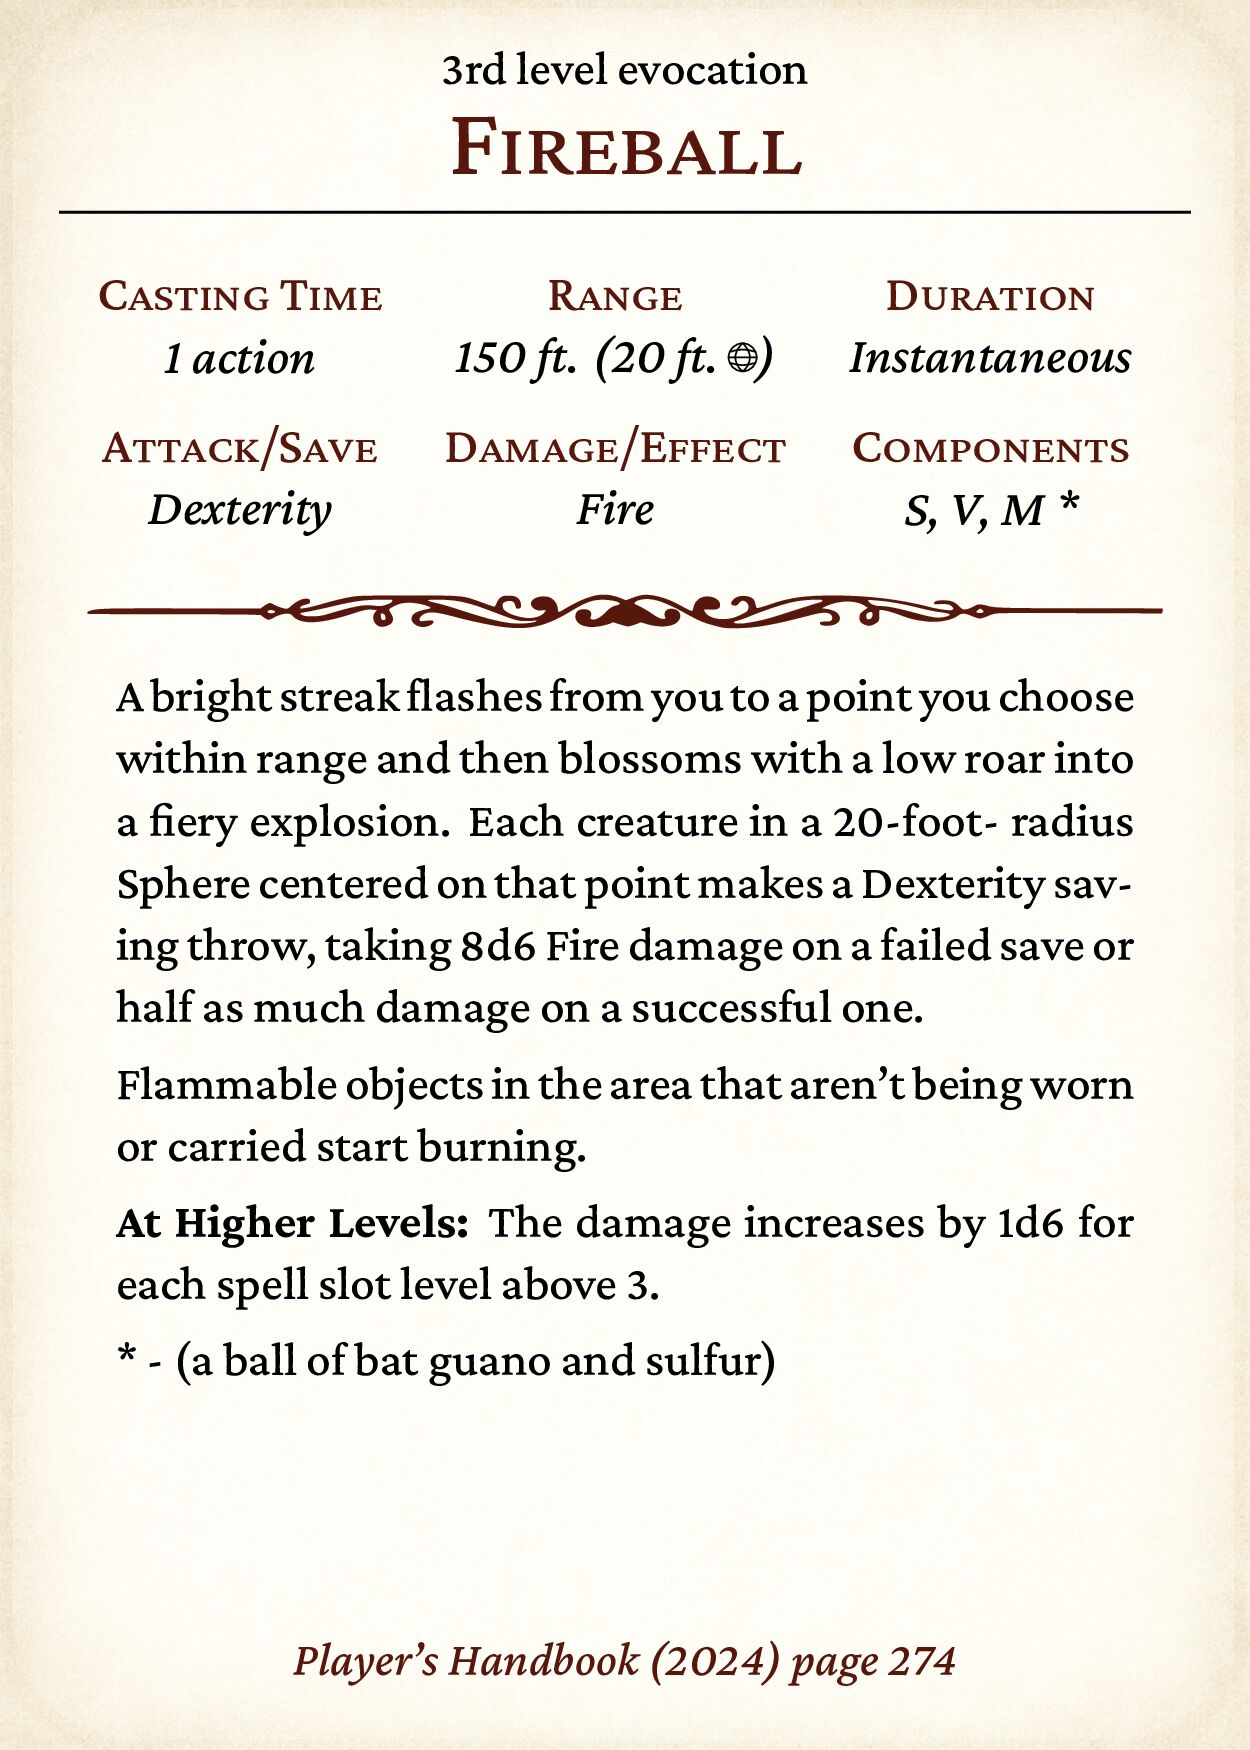
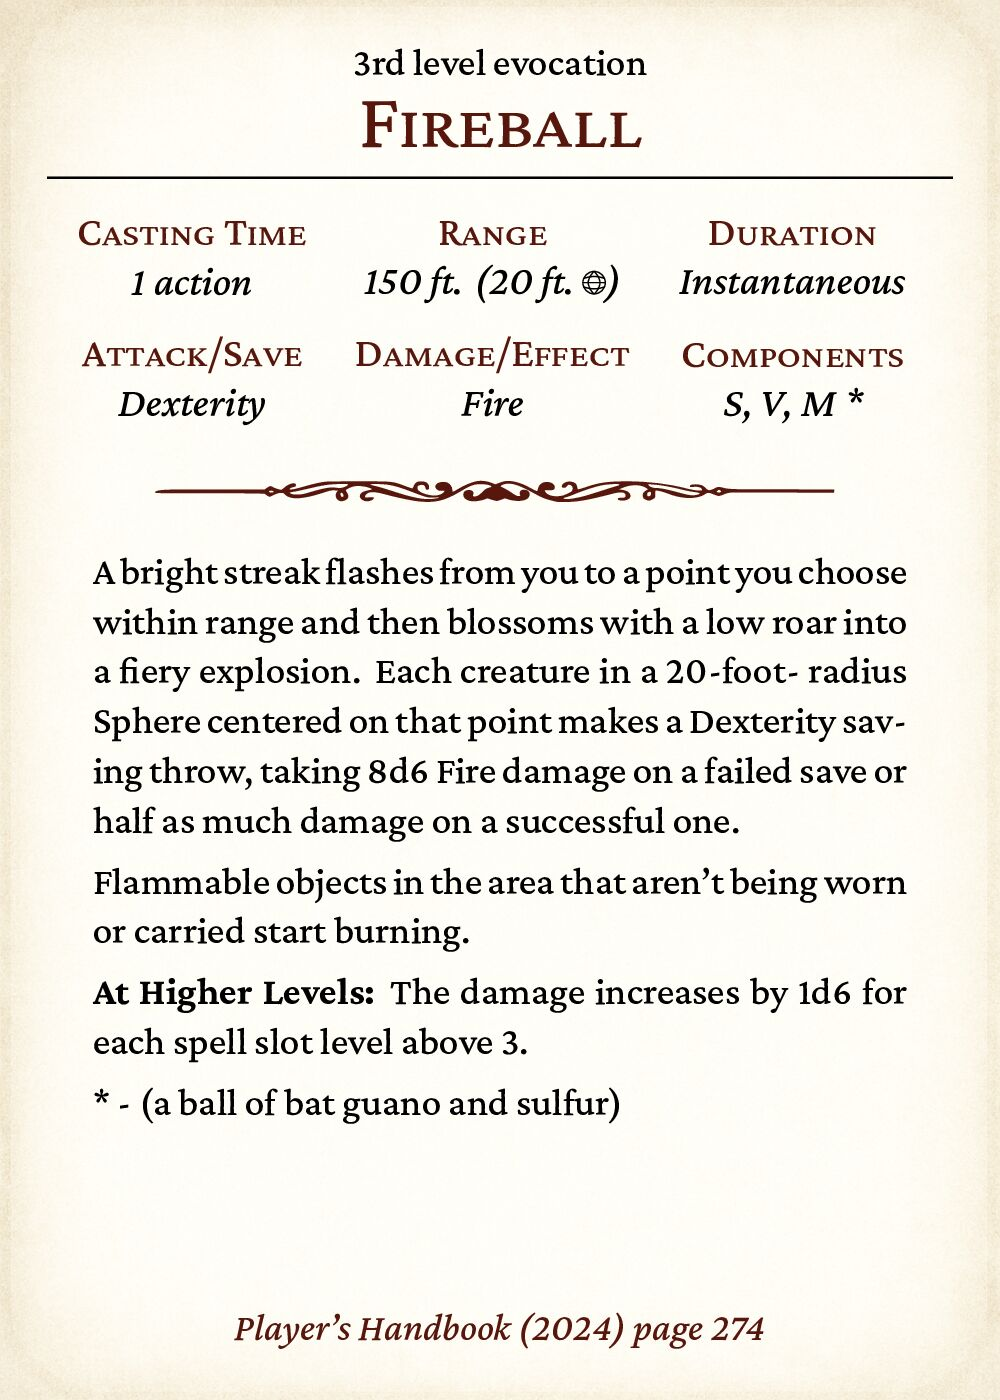
Update generate.py to adjust text truncation logic and increase max text length; add new SVG dividers and update README.md for clarity on text truncation.

diff --git a/tex/cards.tex b/tex/cards.tex
@@ -5,7 +5,7 @@
 \usepackage{graphicx}
 \usepackage{svg}
 \usepackage{xstring}
-\usepackage[paperheight=8.89cm,paperwidth=6.35cm,margin=0.3cm,top=19.5mm,bottom=0mm,headheight=12mm]{geometry}
+\usepackage[paperheight=8.89cm,paperwidth=6.35cm,margin=0.3cm,top=20mm,bottom=0mm,headheight=25mm]{geometry}
 
 % Debug packages - comment out when not needed
  %\usepackage{showframe}  % Shows page margins and frames
@@ -123,10 +123,11 @@
     \StrBefore{\duration}{|}[\durationtext]
     \StrBehind{\duration}{|}[\concentrationflag]
     \def\concentration{\concentrationflag}
-    \begin{minipage}[t][5.5cm][t]{\textwidth}  % Main content height
+
+    \begin{minipage}[t][5.7cm][t]{\textwidth}  % Main content height
         \setlength{\parskip}{0.5em}%
+        \vspace{-0.2em}
         % Spell attributes section
-        \leavevmode
         \begin{minipage}[t]{\textwidth}
             \begin{minipage}[t]{0.32\textwidth}
                 \centering\footnotesize{\color{headercolor}\fauxsc{Casting Time}}
@@ -159,19 +160,22 @@
                 {\italicfont\damageeffect}
             \end{minipage}
             \begin{minipage}[t]{0.32\textwidth}
-                \vspace{0.1em}
+                \vspace{0.1em} %ensures duration is aligned with other attributes
                 \centering\footnotesize{\color{headercolor}\fauxsc{Components}}
 
                 {\italicfont\components}
             \end{minipage}
-            \vspace{0.75em}
+            \vspace{0.9em}
         \end{minipage}
         % Fancy divider using custom SVG
-        \includesvg[width=0.95\textwidth]{../images/dividers/divider1}
         \vspace{0em}
+        \includesvg[width=0.75\textwidth]{../images/dividers/divider1}
+        \vspace{0.1em}
         % Spell description section
         \centering
+        \vspace{0em}
         \begin{minipage}[t]{0.9\textwidth}
+            \vspace{-0.3em}
             \setlength{\parskip}{0.2em}
             \scriptsize
 }{

diff --git a/generate.py b/generate.py
@@ -5,7 +5,7 @@ import sys
 import textwrap
 import json
 
-MAX_TEXT_LENGTH = 670
+MAX_TEXT_LENGTH = 690
 
 SPELLS_TRUNCATED = 0
 SPELLS_TOTAL = 0
@@ -30,9 +30,11 @@ with open('data/spells.json') as json_data:
 def truncate_string(string, max_len=MAX_TEXT_LENGTH):
     if len(string) <= max_len:
         return string
-    
-    # Cut at max_len and add ellipsis
-    return string[:max_len-3] + "..."
+
+    # remove trailing space at the point of truncation
+    string = string[:max_len-3].rstrip() + "..." #add ellipsis at the point of truncation   
+
+    return string
 
 
 def print_spell(name, level, school, range, time, ritual, duration, components,

diff --git a/README.md b/README.md
@@ -10,10 +10,11 @@ speed up the game.
 
 ## Preview
 
-A card looks something like this. As you can see, some cards need to have
-their text truncated because there is simply too much to put on a small card.
+A card looks something like this.
 
 <img src="samples/fireball.jpg" alt="Fireball spell card example" width="500px" />
+
+Some cards need to have their text truncated and the script automatically cuts text beyond a certain lenght.
 
 ## Requirements
 
